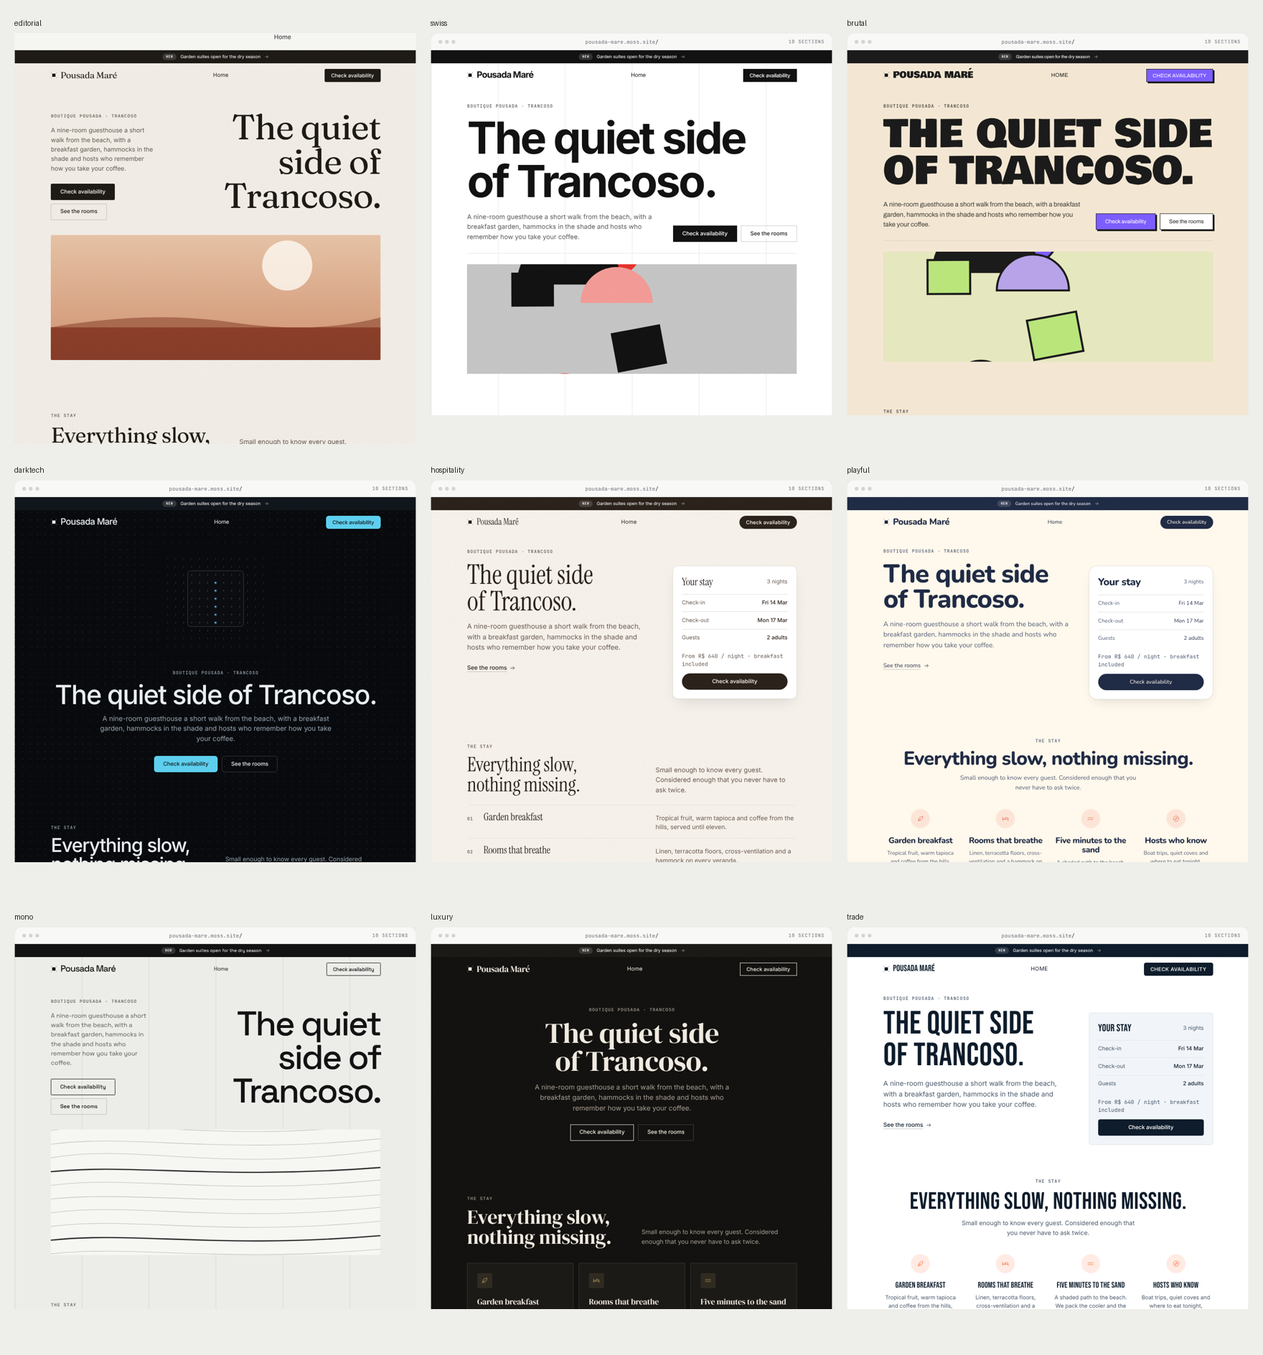
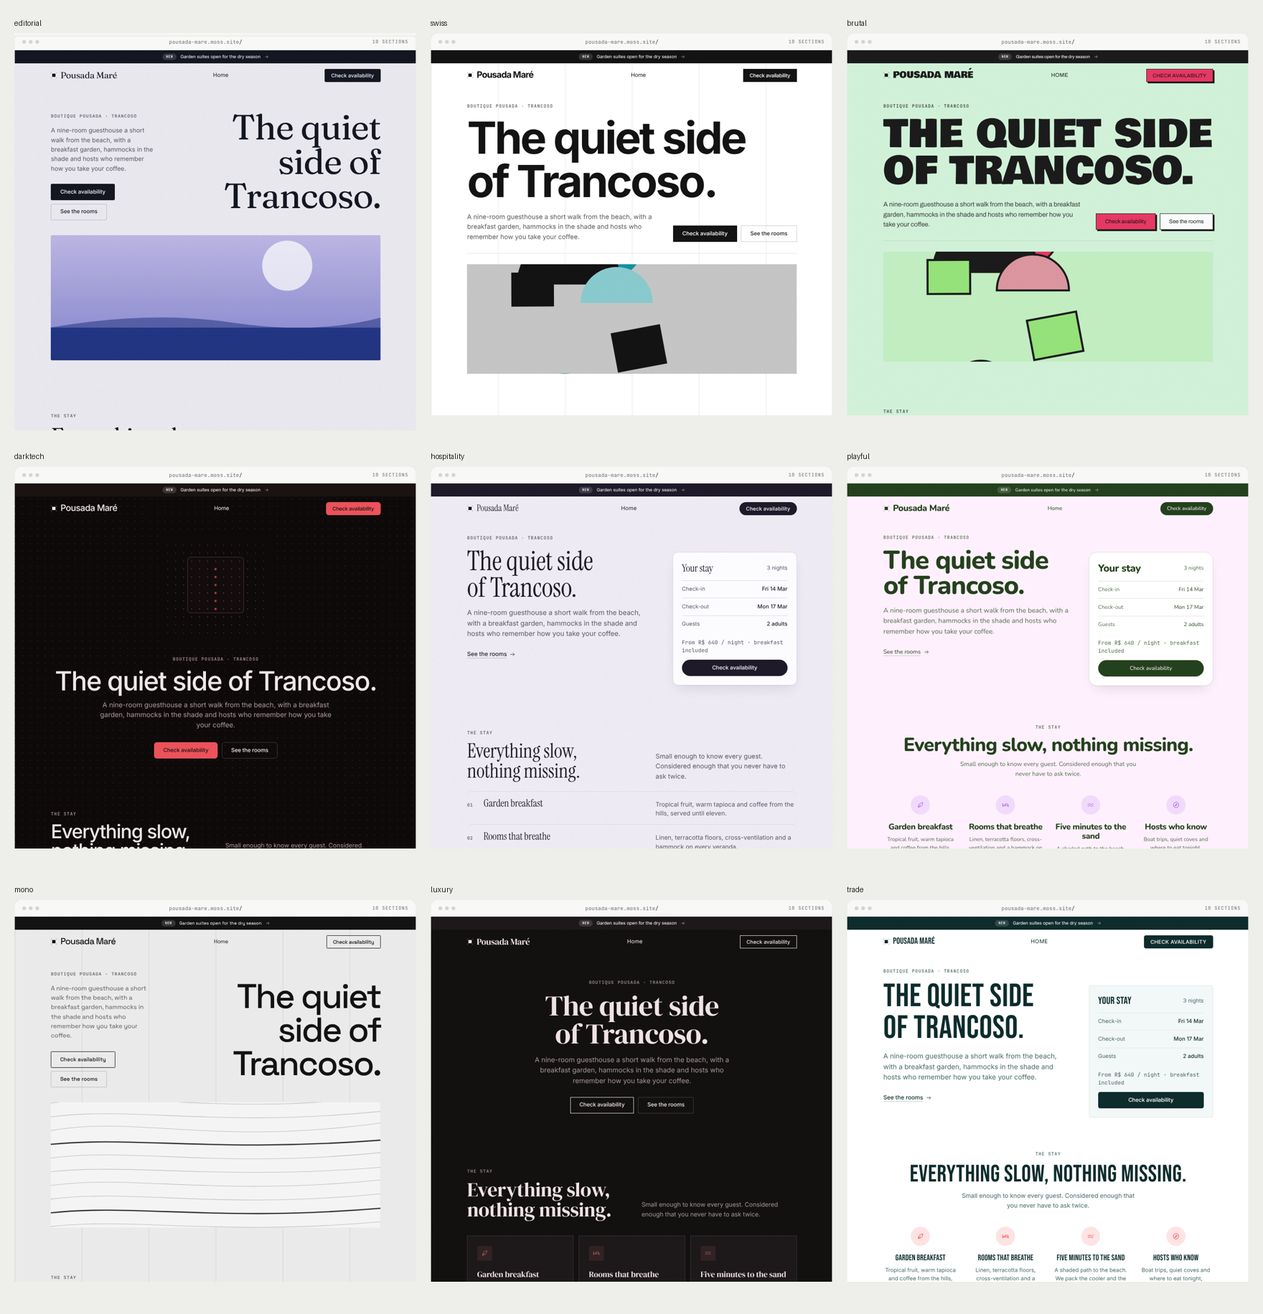
One-step page actions and generated palettes
Deleting a page, clearing a page and starting over each happen in one
step (deletePage, resetPage, resetSite) with a single fade; model
output that empties a page section by section is collapsed into one op,
and the common phrasings run locally. Directions now carry colour
strategies instead of fixed palettes: the model picks a brand hue,
paletteFor() builds the scheme, a direction's sample colours sent back
unchanged are regenerated, and colours the user names pass through
(nudged only for contrast).

Claude-Session: https://claude.ai/code/session_015DKdGCTn16ZeKQK3cTHGLa

diff --git a/moss-builder.html b/moss-builder.html
@@ -1179,7 +1179,18 @@ const agent = (() => {
     if (/^\s*(undo|revert)\b|\bundo\b|take that back|go back a step/.test(low)) {
       return pageModel.canUndo() ? { reply: 'Rolled back the last change.', ops: [{ op: 'undo' }] } : { reply: 'Nothing to undo yet.', ops: [] };
     }
-    if (!state.pages.length || /\b(start over|new site|rebuild everything)\b/.test(low)) return build(text, state);
+    if (!state.pages.length) return build(text, state);
+    if (/\b(start over|start again|start from scratch|from scratch|scrap (it|this|everything)|redo (the whole thing|everything|it all|the (whole )?site)|rebuild everything|new site)\b/.test(low)) {
+      const again = state.business ? build(state.business.prompt || state.business.name, Object.assign({}, state, { pages: [] })) : null;
+      return { reply: 'Starting over from a blank canvas.', ops: [{ op: 'resetSite' }, ...(again ? again.ops : [])], after: again && again.after, suggestions: again && again.suggestions };
+    }
+    const redoPage = low.match(/\b(redo|rebuild|clear|wipe|empty)\s+(the\s+)?@?([a-z][\w-]*)\s+page\b/);
+    if (redoPage && state.pages.find((p) => p.id === redoPage[3])) {
+      const id = redoPage[3];
+      if (/clear|wipe|empty/.test(redoPage[1])) return { reply: `Cleared @${pageName(state, id)}.`, ops: [{ op: 'resetPage', page: id }], suggestions: ['Undo'] };
+      const sections = id === 'home' ? ['hero', 'features', 'testimonials', 'pricing', 'faq', 'cta', 'footer'].map((t) => makeSection(t, c)) : (PAGE_RECIPES[id] ? PAGE_RECIPES[id](c) : []);
+      return { reply: `Rebuilding @${pageName(state, id)} from scratch.`, ops: [{ op: 'resetPage', page: id }, ...sections.map((sec) => ({ op: 'addSection', page: id, section: sec }))], suggestions: ['Undo'] };
+    }
 
     if (/(map|draw|chart|diagram|sketch|plot|lay out)\b.*\b(flow|journey|funnel|process)\b|flow ?chart/.test(low)) {
       const key = /book|reserv/.test(low) ? 'booking' : /sign ?up|onboard|trial|register/.test(low) ? 'signup' : /checkout|purchase|subscri|order|buy/.test(low) ? 'checkout' : /contact|lead|enquir|inquir/.test(low) ? 'contact' : (c ? c.flow : 'contact');
@@ -1229,8 +1240,10 @@ const agent = (() => {
     }
 
     if (/\b(delete|remove|drop|get rid of|lose|kill|cut)\b/.test(low)) {
-      if (/\bpage\b/.test(low) && (refs.pages.length || namedPages.length)) {
-        const id = refs.pages.length ? refs.pages[0].id : namedPages[0];
+      const namedDel = low.match(/\b(?:delete|remove|drop|get rid of|lose|kill|cut)\s+(?:the\s+)?@?([a-z][\w-]*)\s+page\b/);
+      const delId = namedDel && state.pages.find((p) => p.id === namedDel[1]) ? namedDel[1] : null;
+      if (/\bpage\b/.test(low) && (refs.pages.length || namedPages.length || delId)) {
+        const id = refs.pages.length ? refs.pages[0].id : delId || namedPages[0];
         if (id === 'home') return { reply: 'Home is the root page, so it stays. I can clear its sections instead.', ops: [] };
         if (!pageModel.page(id)) return { reply: `There’s no ${cap(id)} page.`, ops: [] };
         return { reply: `Removed the ${pageName(state, id)} page.`, ops: [{ op: 'deletePage', page: id }], suggestions: ['Undo'] };
@@ -1346,6 +1359,9 @@ const agent = (() => {
   function isLocalCommand(low, state) {
     const l = low.replace(/[.!?]/g, '').trim();
     if (UNDO_RE.test(l) || VIEW_RE.test(l)) return true;
+    const del = l.match(/^(delete|remove|get rid of|drop)\s+(the\s+)?@?([a-z][\w-]*)\s+page$/);
+    if (del && del[3] !== 'home' && state.pages.find((p) => p.id === del[3])) return true;
+    if (/^(clear|wipe|empty)\s+(the\s+)?@?[a-z][\w-]*\s+page$/.test(l)) return true;
     const go = l.match(/^(go to|open|show( me)?|take me to)\s+(the\s+)?@?([a-z][\w-]*)(\s+page)?$/);
     return !!(go && state.pages.find((p) => p.name.toLowerCase() === go[4] || p.id === go[4]));
   }
@@ -1509,9 +1525,20 @@ const agent = (() => {
           break;
         }
         case 'deletePage': {
-          const id = slug(raw.page); if (!id || id === 'home' || !pageOf(id)) break;
+          const id = slug(raw.page); if (!id || !pageOf(id)) break;
+          if (id === 'home') { pageOf('home').sections = []; ops.push({ op: 'resetPage', page: 'home' }); break; } // Home is cleared, never removed
           sim.pages = sim.pages.filter((pg) => pg.id !== id);
           ops.push({ op: 'deletePage', page: id });
+          break;
+        }
+        case 'resetPage': {
+          const pg = pageOf(slug(raw.page) || sim.currentPage); if (!pg) break;
+          pg.sections = []; ops.push({ op: 'resetPage', page: pg.id });
+          break;
+        }
+        case 'resetSite': {
+          sim.pages = []; sim.currentPage = 'home'; sim.business = null; copy = null;
+          ops.push({ op: 'resetSite' });
           break;
         }
         case 'setPalette':
@@ -1558,6 +1585,18 @@ const agent = (() => {
         }
       }
     }
+    // Deleting every section of a page one by one becomes a single step: deletePage (or resetPage for Home).
+    const startPages = slimState(state).pages;
+    startPages.forEach((pg0) => {
+      const dels = ops.filter((o) => o.op === 'deleteSection' && o.page === pg0.id);
+      if (!pg0.sections.length || dels.length < pg0.sections.length) return;
+      const first = ops.indexOf(dels[0]);
+      const one = pg0.id === 'home' ? { op: 'resetPage', page: 'home' } : { op: 'deletePage', page: pg0.id };
+      const rest = ops.filter((o) => !dels.includes(o));
+      rest.splice(Math.min(first, rest.length), 0, one);
+      ops.length = 0; ops.push(...rest);
+      if (one.op === 'deletePage') sim.pages = sim.pages.filter((p) => p.id !== pg0.id);
+    });
     // Keep @ only for real pages (existing or added in this turn); "@Pipeline Plumbing" becomes "Pipeline Plumbing".
     const pageNames = new Set(sim.pages.map((pg) => pg.name.toLowerCase()));
     const unAt = (t) => t && t.replace(/@([A-Za-z][\w-]*)/g, (m, n) => (pageNames.has(n.toLowerCase()) ? m : n));
@@ -1649,6 +1688,7 @@ const renderer = (() => {
     if (flip) [...box.children].forEach((el) => before.set(el.dataset.id, el.getBoundingClientRect().top));
     const existing = new Map([...box.children].map((el) => [el.dataset.id, el]));
     const wanted = page ? page.sections : [];
+    box.querySelector('.frame-empty') && box.querySelector('.frame-empty').remove();
     wanted.forEach((sec, i) => {
       let el = existing.get(sec.id);
       const hash = JSON.stringify(sec.data) + designKey;
@@ -1659,7 +1699,8 @@ const renderer = (() => {
       existing.delete(sec.id);
       if (box.children[i] !== el) box.insertBefore(el, box.children[i] || null);
     });
-    existing.forEach((el) => el.remove());
+    existing.forEach((el) => { if (!el.classList.contains('frame-empty')) el.remove(); });
+    if (!wanted.length && document.body.classList.contains('started')) box.insertAdjacentHTML('beforeend', '<div class="frame-empty">Blank canvas · tell Moss what to build</div>');
     if (flip && !reducedMotion.matches) {
       [...box.children].forEach((el) => {
         const t0 = before.get(el.dataset.id); if (t0 == null) return;
@@ -2218,10 +2259,17 @@ const app = (() => {
     sage: { bg: '#f8faf5', surface: '#ffffff', ink: '#1b211c', muted: '#4a554c', accent: '#3b7049', accent2: '#98d6a2', inverse: '#18211b' },
     ink: { bg: '#ffffff', surface: '#f5f5f4', ink: '#111214', muted: '#4d4f55', accent: '#2b2d33', accent2: '#c3c7cf', inverse: '#111214' },
   };
+  // Fade the whole page out in one motion (deleting or clearing a page is one step, not section by section).
+  async function fadePage() {
+    const box = $('#siteSections'); if (!box.children.length) return;
+    box.animate([{ opacity: 1, transform: 'none' }, { opacity: 0, transform: 'translateY(-10px)' }], { duration: 420 * SPEED, easing: 'cubic-bezier(.65,0,.35,1)', fill: 'forwards' });
+    await wait(440);
+    box.getAnimations().forEach((a) => a.cancel());
+  }
   function rememberDirection(id) {
     try { const k = 'moss-recent-directions'; const list = JSON.parse(localStorage.getItem(k) || '[]').filter((x) => x !== id); list.unshift(id); localStorage.setItem(k, JSON.stringify(list.slice(0, 4))); } catch (e) {}
   }
-  const MUTATING = new Set(['setBusiness', 'setDesign', 'addPage', 'addSection', 'updateSection', 'setOrder', 'deleteSection', 'deletePage', 'setPalette', 'addLink', 'addFlow']);
+  const MUTATING = new Set(['resetPage', 'resetSite', 'setBusiness', 'setDesign', 'addPage', 'addSection', 'updateSection', 'setOrder', 'deleteSection', 'deletePage', 'setPalette', 'addLink', 'addFlow']);
   async function applyOp(op, msgEl) {
     const st = pageModel.get();
     switch (op.op) {
@@ -2283,14 +2331,35 @@ const app = (() => {
         break;
       }
       case 'deletePage': {
+        const pg = pageModel.page(op.page); if (!pg) break;
+        const done = logLine(msgEl, 'page', `removed /${op.page} · ${pg.sections.length} sections`);
+        if (st.currentPage === op.page) await fadePage();
+        $(`.tab[data-page="${op.page}"]`)?.classList.add('leaving');
         st.pages = st.pages.filter((p) => p.id !== op.page); st.links = st.links.filter((l) => l.from !== op.page && l.to !== op.page);
         delete st.pagePos[op.page];
-        const done = logLine(msgEl, 'page', `removed /${op.page}`);
         if (st.currentPage === op.page) navigate('home'); else renderAll();
-        await wait(300); done(); break;
+        sound.play('click'); await wait(250); done(); break;
+      }
+      case 'resetPage': {
+        const pg = pageModel.page(op.page); if (!pg) break;
+        const done = logLine(msgEl, 'page', `cleared /${op.page === 'home' ? '' : op.page} · ${pg.sections.length} sections`);
+        if (st.currentPage !== op.page) navigate(op.page);
+        await fadePage();
+        pg.sections = [];
+        isoScene.reset(); renderAll({ flip: false }); sound.play('click');
+        await wait(250); done(); break;
+      }
+      case 'resetSite': {
+        const done = logLine(msgEl, 'site', 'cleared everything');
+        await fadePage();
+        Object.assign(st, { business: null, design: null, palette: 'ice', pages: [], currentPage: 'home', links: [], flows: [], pagePos: {} });
+        history.replaceState(null, '', '#/home');
+        $('#siteSections').dataset.page = '';
+        isoScene.reset(); renderAll({ flip: false }); sound.play('click');
+        await wait(250); done(); break;
       }
       case 'setDesign': {
-        st.design = MossSite.sanitizeDesign(op.design, st.design);
+        st.design = MossSite.sanitizeDesign(op.design, st.design, { seed: st.business && st.business.name });
         rememberDirection(st.design.direction);
         const done = logLine(msgEl, 'style', `${st.design.name.toLowerCase()} · ${st.design.type.display.toLowerCase()}`);
         renderer.render({ flip: false }); isoScene.render(); sound.play('rise'); await wait(500); done(); break;

diff --git a/site/design.js b/site/design.js
@@ -103,15 +103,64 @@
     return out;
   }
 
+
+  /* ---------------------------------------------------------------- generated palettes
+     Each direction has a colour STRATEGY (how light, how saturated, how the accent relates to the base),
+     not a fixed palette. paletteFor() turns a strategy + brand hue into colours, so two sites in the same
+     direction get different schemes. h: hue offset from the brand hue (null = neutral grey), s: saturation %, l: lightness %. */
+  const STRATEGY = {
+    editorial:   { desc: 'warm paper base tinted toward the brand, near-black ink, one rich accent', bg: [25, 20, 94], surface: [25, 25, 98], ink: [0, 25, 10], muted: [0, 10, 36], accent: [0, 62, 40], accent2: [30, 50, 82] },
+    swiss:       { desc: 'pure white, black ink, one loud signal colour', bg: [null, 0, 100], surface: [null, 0, 95], ink: [null, 0, 7], muted: [null, 0, 34], accent: [0, 82, 48], accent2: [null, 0, 7] },
+    brutal:      { desc: 'pastel base, black outlines, a saturated accent plus a contrasting second colour', bg: [150, 55, 88], surface: [150, 30, 98], ink: [null, 0, 10], muted: [null, 0, 23], accent: [0, 78, 56], accent2: [120, 65, 68] },
+    darktech:    { desc: 'near-black base with a cool cast, one luminous accent, grey text', bg: [0, 25, 4.5], surface: [0, 22, 8.5], ink: [0, 18, 92], muted: [0, 10, 64], accent: [0, 80, 62], accent2: [0, 35, 17] },
+    hospitality: { desc: 'soft sand base, deep warm ink, an earthy accent and a pale companion', bg: [15, 45, 96], surface: [15, 60, 99], ink: [10, 25, 13], muted: [10, 12, 37], accent: [0, 55, 40], accent2: [10, 50, 84] },
+    playful:     { desc: 'creamy bright base, deep ink, a vivid accent and a sunny second colour', bg: [40, 90, 97], surface: [40, 60, 100], ink: [200, 40, 18], muted: [200, 18, 40], accent: [0, 88, 60], accent2: [45, 95, 68] },
+    mono:        { desc: 'grey paper, black ink, accent kept almost neutral', bg: [null, 3, 92], surface: [null, 3, 96], ink: [null, 0, 7], muted: [null, 0, 34], accent: [0, 12, 12], accent2: [null, 3, 78] },
+    luxury:      { desc: 'deep warm charcoal, ivory text, one metallic accent', bg: [0, 10, 6.5], surface: [0, 10, 10], ink: [0, 25, 91], muted: [0, 8, 62], accent: [0, 45, 60], accent2: [0, 15, 16] },
+    trade:       { desc: 'clean white, deep brand-tinted navy ink, one safety-bright accent', bg: [null, 0, 100], surface: [180, 25, 96], ink: [180, 55, 11], muted: [180, 18, 34], accent: [0, 95, 54], accent2: [180, 55, 11] },
+  };
+  function hsl(h, sat, l) {
+    sat /= 100; l /= 100; const k = (n) => (n + h / 30) % 12; const a = sat * Math.min(l, 1 - l);
+    const f = (n) => l - a * Math.max(-1, Math.min(k(n) - 3, Math.min(9 - k(n), 1)));
+    return toHex([f(0) * 255, f(8) * 255, f(4) * 255]);
+  }
+  const hashHue = (seed) => { let a = 7; for (const ch of String(seed || 'moss')) a = (a * 33 + ch.charCodeAt(0)) >>> 0; return a % 360; };
+  function paletteFor(directionId, hue, hue2) {
+    const st = STRATEGY[directionId] || STRATEGY.hospitality;
+    const H = ((Number(hue) % 360) + 360) % 360;
+    const out = {};
+    Object.keys(st).forEach((k) => {
+      if (k === 'desc') return;
+      const [off, sat, l] = st[k];
+      let h = off == null ? H : (H + off) % 360;
+      if (k === 'accent2' && Number.isFinite(Number(hue2))) h = ((Number(hue2) % 360) + 360) % 360;
+      out[k] = hsl(h, off == null ? sat : sat, l);
+    });
+    out.inverse = lum(out.bg) < 0.2 ? out.surface : out.ink;
+    return guard(out);
+  }
+  const dist = (a, b) => { const x = rgb(a), y = rgb(b); return Math.hypot(x[0] - y[0], x[1] - y[1], x[2] - y[2]); };
+  /** True when colours are (nearly) a direction's sample palette, i.e. copied rather than designed. */
+  function isSample(colors, dir) {
+    const bg = hex(colors && colors.bg), ac = hex(colors && colors.accent);
+    return !!(dir && ((bg && dist(bg, dir.colors.bg) < 22) || !bg) && ac && dist(ac, dir.colors.accent) < 40);
+  }
+
   /* ---------------------------------------------------------------- design normalisation */
-  function sanitizeDesign(raw, current) {
+  function sanitizeDesign(raw, current, opts = {}) {
     raw = raw && typeof raw === 'object' ? raw : {};
     const base = byId(raw.direction) || (current && byId(current.direction)) || byId('hospitality');
     const prev = current && current.direction === base.id ? current : JSON.parse(JSON.stringify(base));
     const d = { direction: base.id, name: typeof raw.name === 'string' && raw.name.trim() ? raw.name.trim().slice(0, 40) : (prev.name || base.name) };
-    const colors = Object.assign({}, base.colors, prev.colors);
-    Object.keys(base.colors).forEach((k) => { const h = raw.colors && hex(raw.colors[k]); if (h) colors[k] = h; });
+    // Colours: keep the current palette for small patches; otherwise generate one from the brand hue.
+    // Explicit colours (the user named them) win, unless they are just the direction's sample copied back.
+    const sameDir = current && current.direction === base.id;
+    const hue = Number.isFinite(Number(raw.hue)) && raw.hue !== null && raw.hue !== '' ? Number(raw.hue) : null;
+    const explicit = raw.colors && typeof raw.colors === 'object' && Object.keys(base.colors).some((k) => hex(raw.colors[k])) && !isSample(raw.colors, base);
+    let colors = sameDir && hue == null && current.colors ? Object.assign({}, current.colors) : paletteFor(base.id, hue != null ? hue : hashHue(opts.seed || (current && current.name) || base.id), raw.hue2);
+    if (explicit) Object.keys(base.colors).forEach((k) => { const h = hex(raw.colors[k]); if (h) colors[k] = h; });
     d.colors = guard(colors);
+    d.hue = hue != null ? ((hue % 360) + 360) % 360 : (sameDir && current.hue != null ? current.hue : null);
     d.swatches = Object.assign({}, prev.swatches || {});
     if (raw.swatches && typeof raw.swatches === 'object') Object.keys(raw.swatches).slice(0, 12).forEach((n) => { const h = hex(raw.swatches[n]); const name = String(n).toLowerCase().replace(/[^a-z0-9 -]/g, '').trim().slice(0, 24); if (h && name) d.swatches[name] = h; });
     const t = Object.assign({}, base.type, prev.type, raw.type && typeof raw.type === 'object' ? raw.type : {});
@@ -130,7 +179,7 @@
     d.art = ART_KINDS.includes(raw.art) ? raw.art : (prev.art || base.art);
     return d;
   }
-  const fromDirection = (id) => sanitizeDesign({ direction: id }, null);
+  const fromDirection = (id, seed) => sanitizeDesign({ direction: id }, null, { seed: seed || id });
 
   /* ---------------------------------------------------------------- apply to the page */
   const DENSITY = { airy: 1.2, regular: 1, compact: 0.8 };
@@ -269,7 +318,8 @@
     return fn ? fn(sec.data || {}, design) : null;
   }
   /** Compact library for the model's prompt. */
-  const library = () => DIRECTIONS.map((d) => ({ id: d.id, name: d.name, mood: d.mood, fits: d.fits, colors: d.colors, type: { display: d.type.display, body: d.type.body, case: d.type.case }, shape: d.shape, mode: d.mode, variants: d.variants, art: d.art }));
+  // Sent to the model: colour STRATEGIES, never sample hex values, so it invents a palette per brand.
+  const library = () => DIRECTIONS.map((d) => ({ id: d.id, name: d.name, mood: d.mood, fits: d.fits, palette: STRATEGY[d.id].desc, type: { display: d.type.display, body: d.type.body, case: d.type.case }, shape: d.shape, mode: d.mode, variants: d.variants, art: d.art }));
 
-  window.MossSite = { FONTS, DIRECTIONS, VARIANTS, ART_KINDS, NEW_TYPES, byId, fromDirection, sanitizeDesign, apply, art, render, variantOf, rich, ratio, guard, library, ensureFont };
+  window.MossSite = { paletteFor, isSample, hashHue, STRATEGY, FONTS, DIRECTIONS, VARIANTS, ART_KINDS, NEW_TYPES, byId, fromDirection, sanitizeDesign, apply, art, render, variantOf, rich, ratio, guard, library, ensureFont };
 })();

diff --git a/api/agent.js b/api/agent.js
@@ -44,9 +44,12 @@ OPS (applied in order):
 - {"op":"updateSection","page":pageId,"id":sectionId,"patch":{...fields to replace...},"note":"rewrote headline"}
 - {"op":"setOrder","page":pageId,"order":[every section id on that page, in the new order]}
 - {"op":"deleteSection","page":pageId,"id":sectionId}
-- {"op":"deletePage","page":pageId}   never delete "home".
-- {"op":"setDesign","design":{"direction":directionId,"name"?:string,"colors"?:{"bg","surface","ink","muted","accent","accent2","inverse"},"swatches"?:{name:hex},"type"?:{"display","body","mono","case":"none"|"uppercase","weight","tracking","scale"},"shape"?:{"radius","button":"pill"|"square"|"brutal"|"outline"|"accent","border":"none"|"hairline"|"heavy","shadow":"none"|"soft"|"hard"},"density"?:"airy"|"regular"|"compact","texture"?:"none"|"grain"|"dotgrid"|"lines","variants"?:{sectionType:variant},"art"?:artKind}}
-    The site's whole design system. Start from a DIRECTION (listed under DIRECTIONS) and override only what makes it right for this business: hex colours, fonts from the font list, shape, layouts. Only send fields you change; the app keeps the rest and fixes contrast.
+- {"op":"deletePage","page":pageId}   removes a whole page in one step. Never delete "home".
+- {"op":"resetPage","page":pageId}   clears every section of a page in one step (use for "clear/redo the home page"), then addSection the new ones.
+- {"op":"resetSite"}   clears everything (use for "start over", "redo the whole thing", "scrap it"); follow it with the full first-build sequence (setBusiness, setDesign, addPage home, sections) unless the user wants to plan first.
+- {"op":"setDesign","design":{"direction":directionId,"hue":0-359,"hue2"?:0-359,"name"?:string,"colors"?:{"bg","surface","ink","muted","accent","accent2","inverse"},"swatches"?:{name:hex},"type"?:{"display","body","mono","case":"none"|"uppercase","weight","tracking","scale"},"shape"?:{"radius","button":"pill"|"square"|"brutal"|"outline"|"accent","border":"none"|"hairline"|"heavy","shadow":"none"|"soft"|"hard"},"density"?:"airy"|"regular"|"compact","texture"?:"none"|"grain"|"dotgrid"|"lines","variants"?:{sectionType:variant},"art"?:artKind}}
+    The site's whole design system. Start from a DIRECTION (listed under DIRECTIONS) and override only what makes it right for this business: fonts from the font list, shape, layouts. Only send fields you change; the app keeps the rest and fixes contrast.
+    COLOUR: each direction gives a palette STRATEGY, not colours. Pick "hue" (the brand accent hue in degrees, e.g. 210 for a trustworthy blue, 15 for terracotta, 145 for green) and optionally "hue2"; the app builds the palette from the strategy. Send "colors" only when the user names colours ("navy and orange"). Never copy colours from any reference or another site.
     Use it on the first build (right after setBusiness), and for any style request: "make it bold", "navy and orange", "square buttons with a hard shadow", "uppercase headings", "use Fraunces".
 - {"op":"setPalette","palette":"ice"|"warm"|"sage"|"ink"}   quick preset colours only; prefer setDesign with explicit colours.
 - {"op":"addLink","from":pageId,"section":sectionId,"to":pageId}   also send an updateSection that sets that cta's "href" to "#/<to>".
@@ -82,6 +85,7 @@ RULES
 - DESIGN: every business gets its own look. Choose the direction whose "fits" matches best, avoid RECENT directions unless the user asked for one, then customise colours, fonts and layouts so it feels made for this business. Vary section layouts down the page (do not use the same layout twice in a row when an alternative fits).
 - New pages: addPage, then 3–5 fitting sections ending with footer (about: hero centered, text, stats, cta, footer; contact: hero centered, contact, footer; booking: hero centered, booking, faq, footer; pricing: hero centered, pricing, faq, cta, footer).
 - Edits: change only what was asked. Use updateSection with just the changed fields. Use the real section ids from STATE.
+- Whole-page actions are ONE op: removing a page is deletePage, clearing or redoing a page is resetPage, starting over is resetSite. Never send a deleteSection per section to empty a page.
 - "@Name" refers to a page by name or a section on the current page by type (e.g. @Hero).
 - Write specific, believable copy for this business: concrete details, short sentences, sentence case headlines. No placeholder text, no lorem ipsum, no "Lorem", no exclamation marks.
 - If the request is unclear or impossible, return "ops": [] and ask one short question in reply.
